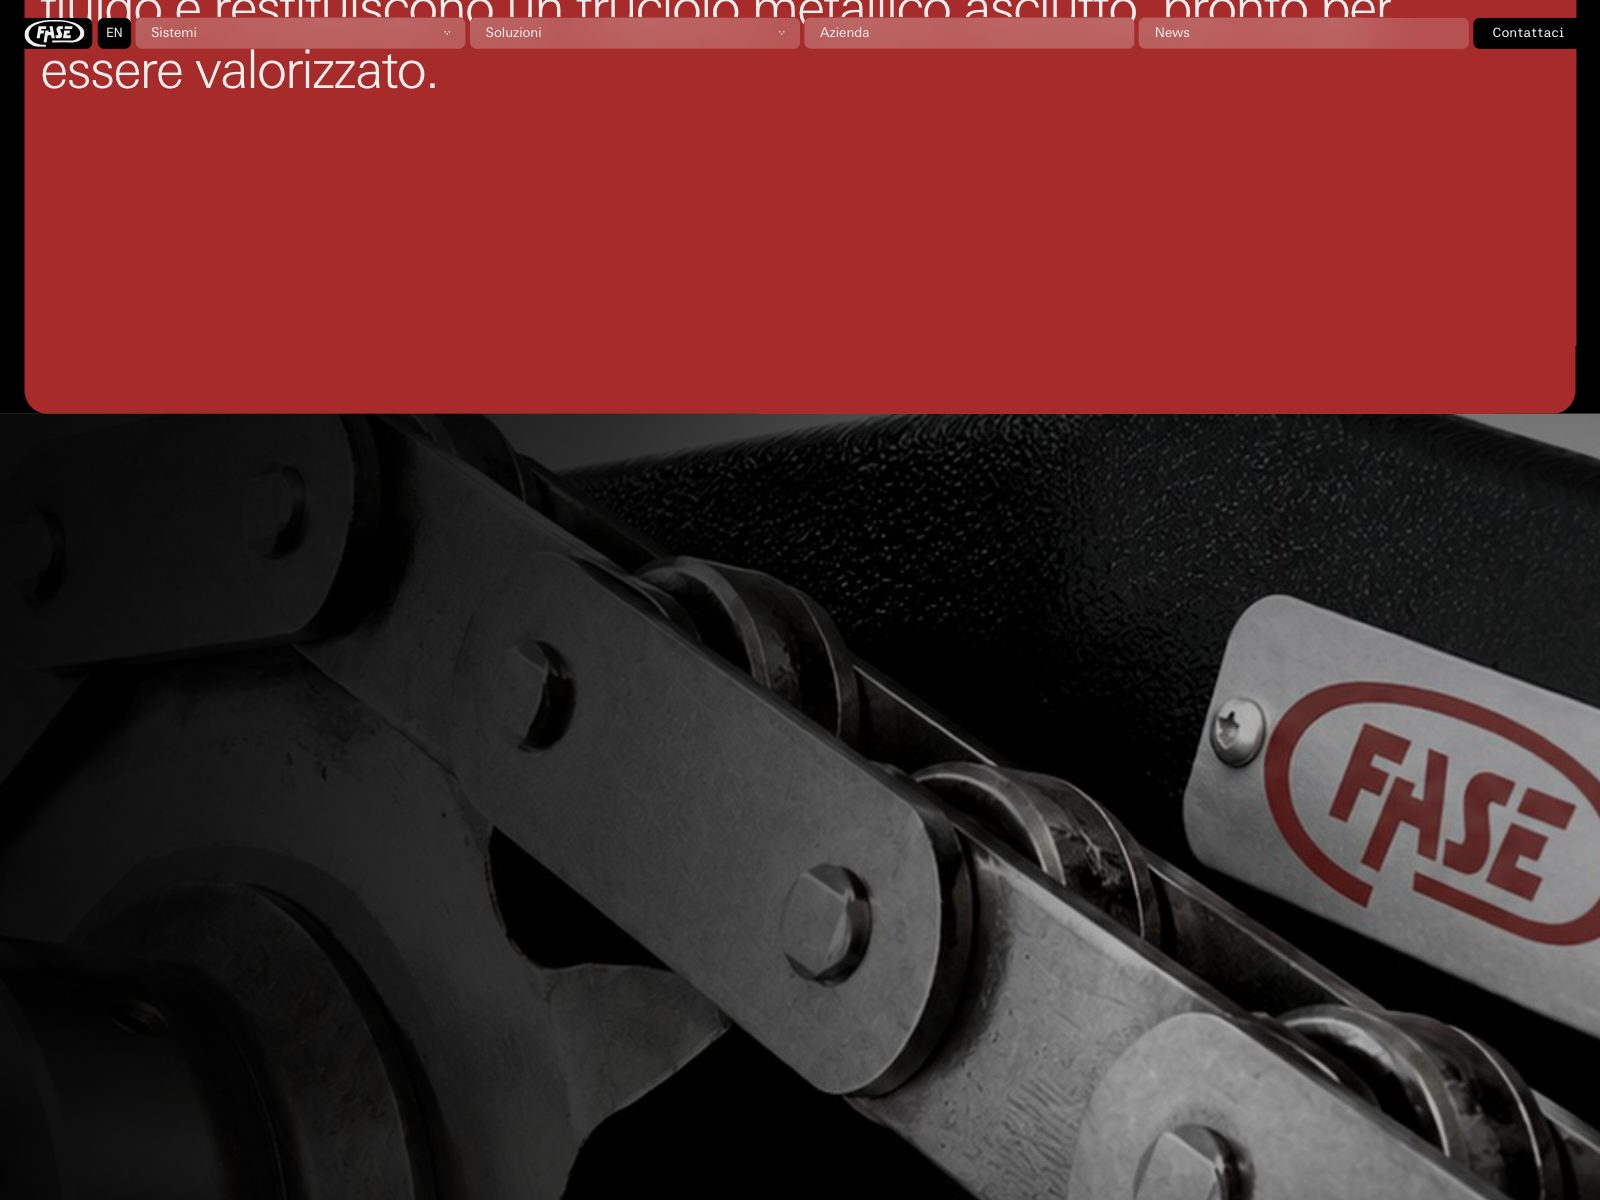
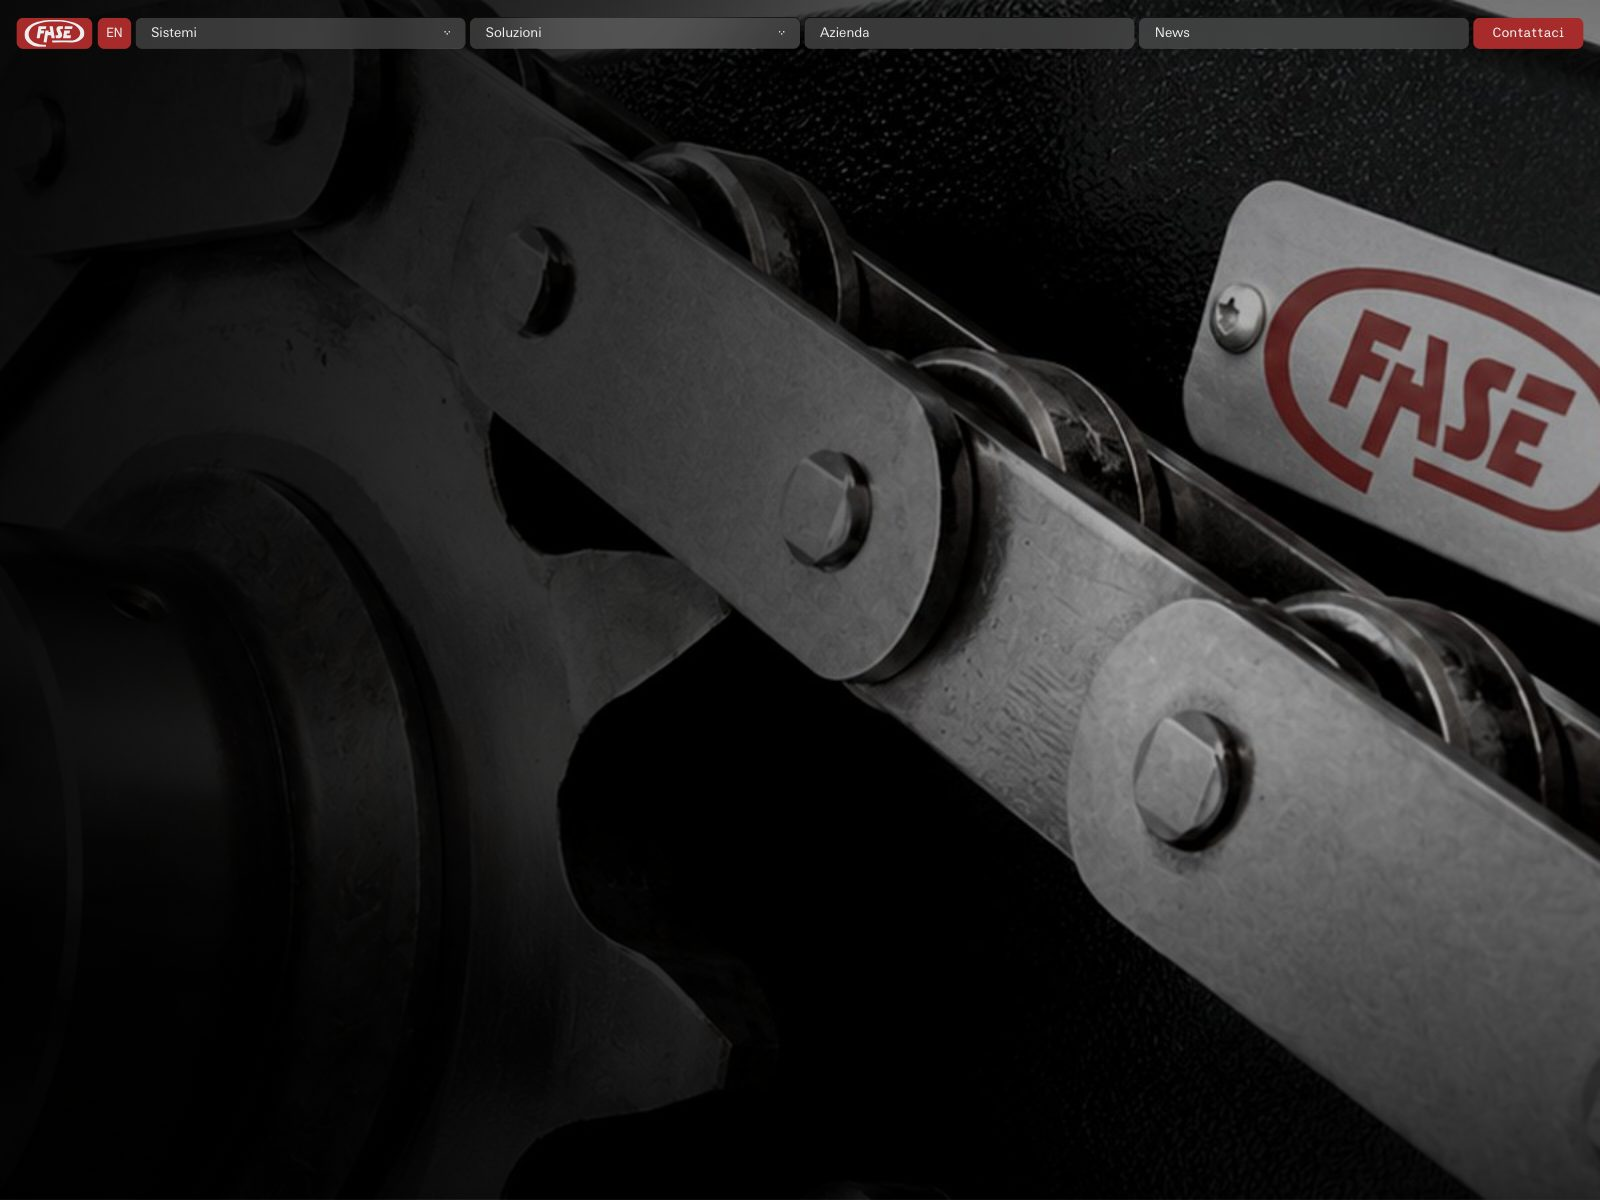
Show the real Fase and Estetica photos to returning visitors
The new screenshots kept the placeholders' file names, and Pages lets
browsers keep a file for four hours, so anyone who had opened work/
before kept seeing grey placeholders for Fase and Estetica Skincare.
The build now stamps media paths inside JS files with a content hash,
as it already does for CSS and JS in HTML.

Estetica is re-shot from esteticaskincare.it and Fase from fasemec.com,
with Fase's frames aligned to the top of its sections.

diff --git a/work/progetti.js b/work/progetti.js
@@ -18,7 +18,9 @@
                  { video: "…mp4", poster: "…jpg", w, h, alt }
 
    Le immagini sono screenshot dei siti online, in 4:3 (1600x1200), presi
-   scorrendo la homepage di ciascuno. Le descrizioni vengono dai siti stessi:
+   scorrendo la homepage di ciascuno (esteticaskincare.it, fasemec.com,
+   acci4i0.github.io/vibrolux). Rifacendo una foto con lo stesso nome non
+   serve cambiarlo: la build aggiunge al percorso l'impronta del file. Le descrizioni vengono dai siti stessi:
    da rivedere con parole tue. */
 
 window.WORK = {
@@ -41,7 +43,7 @@ window.WORK = {
       descrizione:
         "Il sito di un centro estetico a San Giuseppe di Cassola, aperto dal 1990: trattamenti viso e corpo, tecnologie, e prenotazione su WhatsApp o al telefono.",
       tag: ["Sito web", "Beauty", "Centro estetico"],
-      link: [{ etichetta: "VISITA", href: "https://acci4i0.github.io/estetica/" }],
+      link: [{ etichetta: "VISITA", href: "https://esteticaskincare.it/" }],
       cover: { src: "assets/photos/estetica-skincare/cover.jpg", w: 1600, h: 1200, alt: "Homepage di Estetica Skincare: il nome in grande su una crema avorio, sotto l'elenco dei trattamenti" },
       media: [
         { src: "assets/photos/estetica-skincare/01.jpg", w: 1600, h: 1200, etichetta: "TRATTAMENTI", alt: "Griglia dei trattamenti viso, ognuno con una foto" },
@@ -58,11 +60,11 @@ window.WORK = {
       descrizione:
         "Il sito di Fase Mechanical Engineering: centrifughe, impianti e trituratori per il truciolo metallico, con una pagina per ogni prodotto.",
       tag: ["Sito web", "Industria", "Catalogo"],
-      link: [{ etichetta: "VISITA", href: "https://www.fasemec.com/" }],
+      link: [{ etichetta: "VISITA", href: "https://fasemec.com/" }],
       cover: { src: "assets/photos/fase/cover.jpg", w: 1600, h: 1200, alt: "Homepage di Fase: una centrifuga in primo piano e il titolo Truciolo asciutto, fluido in circolo" },
       media: [
-        { src: "assets/photos/fase/01.jpg", w: 1600, h: 1200, etichetta: "HOMEPAGE", alt: "Un blocco rosso di testo sopra la foto di un macchinario con il marchio Fase" },
-        { src: "assets/photos/fase/02.jpg", w: 1600, h: 1200, etichetta: "PRODOTTI", alt: "Le tre famiglie di prodotto: centrifughe, trituratori, impianti" },
+        { src: "assets/photos/fase/01.jpg", w: 1600, h: 1200, etichetta: "TECNOLOGIA", alt: "Primo piano di una catena di trasmissione con il marchio Fase" },
+        { src: "assets/photos/fase/02.jpg", w: 1600, h: 1200, etichetta: "PRODOTTI", alt: "Ogni reparto ha il suo truciolo: le tre famiglie di prodotto, centrifughe, trituratori e impianti" },
         { src: "assets/photos/fase/03.jpg", w: 1600, h: 1200, etichetta: "AZIENDA", alt: "Sezione scura con il titolo Resa misurata sul materiale" },
       ],
     },
